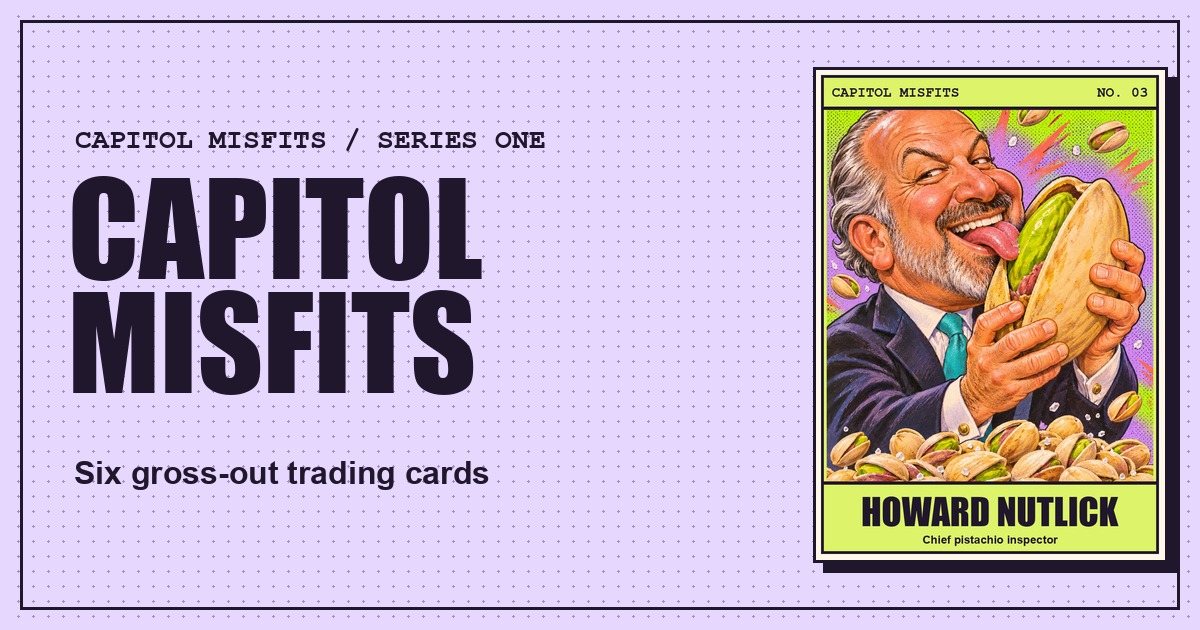
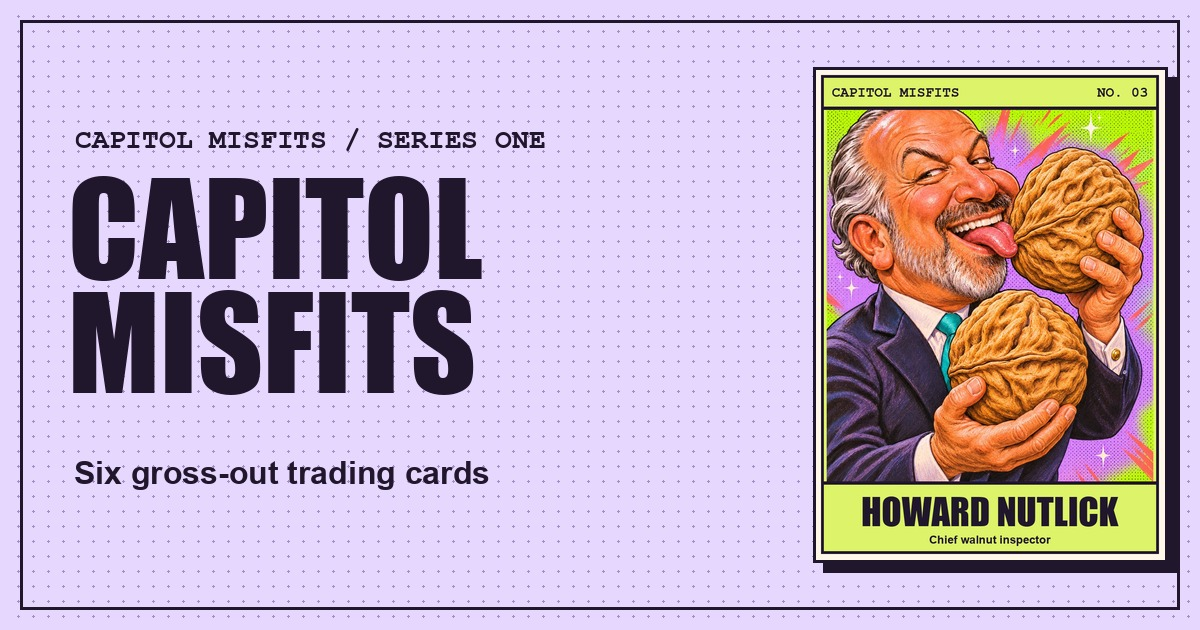
Give Howard Nutlick two walnuts

Changed region(s): [[0.6783, 0.1508, 0.9867, 0.7841], [0.7708, 0.8444, 0.8942, 0.8746], [0.6783, 0.181, 0.74, 0.2714]]

diff --git a/docs/howard-nutlick/index.html b/docs/howard-nutlick/index.html
@@ -4,17 +4,17 @@
   <meta charset="utf-8">
   <meta name="viewport" content="width=device-width, initial-scale=1">
   <title>Howard Nutlick | Capitol Misfits</title>
-  <meta name="description" content="Chief pistachio inspector. Some people crack a pistachio to see what’s inside. Howard goes straight to the taste test.">
+  <meta name="description" content="Chief walnut inspector. Howard brought two giant walnuts to the taste test. He’ll get around to cracking them eventually.">
   <link rel="canonical" href="https://daaronr.github.io/capitol-misfits/howard-nutlick/">
   <meta property="og:type" content="website">
   <meta property="og:site_name" content="Capitol Misfits">
   <meta property="og:url" content="https://daaronr.github.io/capitol-misfits/howard-nutlick/">
   <meta property="og:title" content="Howard Nutlick | Capitol Misfits">
-  <meta property="og:description" content="Chief pistachio inspector. Some people crack a pistachio to see what’s inside. Howard goes straight to the taste test.">
+  <meta property="og:description" content="Chief walnut inspector. Howard brought two giant walnuts to the taste test. He’ll get around to cracking them eventually.">
   <meta property="og:image" content="https://daaronr.github.io/capitol-misfits/assets/howard-nutlick-social.jpg">
   <meta property="og:image:width" content="1200">
   <meta property="og:image:height" content="630">
-  <meta property="og:image:alt" content="A grinning Howard Lutnick taste-tests the green kernel of a head-sized pistachio.">
+  <meta property="og:image:alt" content="A grinning Howard Lutnick holds two giant walnuts and taste-tests one.">
   <meta name="twitter:card" content="summary_large_image">
   <link rel="stylesheet" href="../gallery.css">
   <script src="../gallery.js" defer></script>
@@ -35,18 +35,18 @@
     <div class="single-copy">
       <p class="eyebrow">Series one · Card 03</p>
       <h1 id="page-title">Howard Nutlick</h1>
-      <p class="lede">Chief pistachio inspector. Some people crack a pistachio to see what’s inside. Howard goes straight to the taste test.</p>
+      <p class="lede">Chief walnut inspector. Howard brought two giant walnuts to the taste test. He’ll get around to cracking them eventually.</p>
       <p><a href="https://www.thebulwark.com/p/sam-stein-the-divorce">Nickname inspired by Tim Miller of The Bulwark</a>.</p>
     </div>
 
     <article class="card" id="howard-nutlick" data-card aria-labelledby="page-title" style="--accent:#dcf36a;--back-paper:#edf9b4">
-      <img class="card-face" data-front src="../assets/howard-nutlick.webp" width="750" height="1050" loading="eager" alt="A grinning Howard Lutnick taste-tests the green kernel of a head-sized pistachio. Card text reads Howard Nutlick, Chief pistachio inspector.">
+      <img class="card-face" data-front src="../assets/howard-nutlick.webp" width="750" height="1050" loading="eager" alt="A grinning Howard Lutnick holds two giant walnuts and taste-tests one. Card text reads Howard Nutlick, Chief walnut inspector.">
       <div class="card-back" id="howard-nutlick-back" data-back>
         <p class="back-series"><span>Capitol Misfits</span> <span>No. 03</span></p>
         <p class="back-title">Howard Nutlick</p>
-        <p class="back-blurb">Some people crack a pistachio to see what’s inside. Howard goes straight to the taste test.</p>
+        <p class="back-blurb">Howard brought two giant walnuts to the taste test. He’ll get around to cracking them eventually.</p>
         <p class="stat-label">Made-up stats</p>
-        <dl class="stat-list"><div><dt>Shell diameter</dt><dd>14 in</dd></div><div><dt>Quality-control licks</dt><dd>27</dd></div><div><dt>Napkins on hand</dt><dd>0</dd></div></dl>
+        <dl class="stat-list"><div><dt>Walnuts on hand</dt><dd>2</dd></div><div><dt>Quality-control licks</dt><dd>27</dd></div><div><dt>Napkins on hand</dt><dd>0</dd></div></dl>
         <section class="facts" aria-labelledby="howard-nutlick-facts">
           <h4 id="howard-nutlick-facts">Real facts about Howard Lutnick</h4>
           <ul><li>Lutnick was sworn in as U.S. secretary of commerce on February 21, 2025.</li></ul>

diff --git a/docs/index.html b/docs/index.html
@@ -14,7 +14,7 @@
   <meta property="og:image" content="https://daaronr.github.io/capitol-misfits/assets/gallery-social.jpg">
   <meta property="og:image:width" content="1200">
   <meta property="og:image:height" content="630">
-  <meta property="og:image:alt" content="Capitol Misfits trading cards featuring Howard Nutlick and a giant pistachio.">
+  <meta property="og:image:alt" content="Capitol Misfits trading cards featuring Howard Nutlick and two giant walnuts.">
   <meta name="twitter:card" content="summary_large_image">
   <link rel="stylesheet" href="gallery.css">
   <script src="gallery.js" defer></script>
@@ -41,7 +41,7 @@
           <a class="action" href="#deck">Browse the cards ↓</a>
         </div>
         <a class="hero-feature" href="howard-nutlick/" aria-label="Open the Howard Nutlick card">
-          <img src="assets/howard-nutlick.webp" width="750" height="1050" alt="Howard Nutlick and his giant pistachio">
+          <img src="assets/howard-nutlick.webp" width="750" height="1050" alt="Howard Nutlick with two giant walnuts">
         </a>
       </div>
     </section>
@@ -104,13 +104,13 @@
 
 
     <article class="card" id="howard-nutlick" data-card aria-labelledby="howard-nutlick-name" style="--accent:#dcf36a;--back-paper:#edf9b4">
-      <img class="card-face" data-front src="assets/howard-nutlick.webp" width="750" height="1050" loading="lazy" alt="A grinning Howard Lutnick taste-tests the green kernel of a head-sized pistachio. Card text reads Howard Nutlick, Chief pistachio inspector.">
+      <img class="card-face" data-front src="assets/howard-nutlick.webp" width="750" height="1050" loading="lazy" alt="A grinning Howard Lutnick holds two giant walnuts and taste-tests one. Card text reads Howard Nutlick, Chief walnut inspector.">
       <div class="card-back" id="howard-nutlick-back" data-back>
         <p class="back-series"><span>Capitol Misfits</span> <span>No. 03</span></p>
         <p class="back-title">Howard Nutlick</p>
-        <p class="back-blurb">Some people crack a pistachio to see what’s inside. Howard goes straight to the taste test.</p>
+        <p class="back-blurb">Howard brought two giant walnuts to the taste test. He’ll get around to cracking them eventually.</p>
         <p class="stat-label">Made-up stats</p>
-        <dl class="stat-list"><div><dt>Shell diameter</dt><dd>14 in</dd></div><div><dt>Quality-control licks</dt><dd>27</dd></div><div><dt>Napkins on hand</dt><dd>0</dd></div></dl>
+        <dl class="stat-list"><div><dt>Walnuts on hand</dt><dd>2</dd></div><div><dt>Quality-control licks</dt><dd>27</dd></div><div><dt>Napkins on hand</dt><dd>0</dd></div></dl>
         <section class="facts" aria-labelledby="howard-nutlick-facts">
           <h4 id="howard-nutlick-facts">Real facts about Howard Lutnick</h4>
           <ul><li>Lutnick was sworn in as U.S. secretary of commerce on February 21, 2025.</li></ul>

diff --git a/build.py b/build.py
@@ -182,7 +182,7 @@ def write_site(cards):
           <a class="action" href="#deck">Browse the cards ↓</a>
         </div>
         <a class="hero-feature" href="howard-nutlick/" aria-label="Open the Howard Nutlick card">
-          <img src="assets/howard-nutlick.webp" width="{WIDTH}" height="{HEIGHT}" alt="Howard Nutlick and his giant pistachio">
+          <img src="assets/howard-nutlick.webp" width="{WIDTH}" height="{HEIGHT}" alt="Howard Nutlick with two giant walnuts">
         </a>
       </div>
     </section>
@@ -216,7 +216,7 @@ def write_site(cards):
 """
     (DOCS / "index.html").write_text(shell(
         "Capitol Misfits", "Six gross-out political trading cards. Flip for made-up stats and sourced facts.",
-        "", "gallery", "Capitol Misfits trading cards featuring Howard Nutlick and a giant pistachio.", "", body
+        "", "gallery", "Capitol Misfits trading cards featuring Howard Nutlick and two giant walnuts.", "", body
     ), encoding="utf-8")
     for number, card in enumerate(cards, 1):
         e = escape

diff --git a/README.md b/README.md
@@ -12,13 +12,13 @@ Run `python3 -m http.server 8000 --directory docs` to preview. Open the gallery 
 
 ## Illustration prompts
 
-The Codex built-in image generator made the six panels. Each prompt used this shared direction and the matching scene below.
+The Codex built-in image generator made the six panels. Each original prompt used this shared direction and the matching scene below.
 
 > Create one full-bleed portrait 4:5 central trading-card ILLUSTRATION, image only, for Capitol Misfits, an original retro 1980s gross-out sticker-card parody of US politicians. Professional highly expressive painted editorial caricature, oversized head, strong action silhouette, punchy ink lines and detailed painterly colors, comically distorted perspective, crisp expressive face and high contrast, fine offset-print halftone grain in the background, visual humor suited for kids. Make the gag unmistakable at small size. Fill the whole frame with scene and keep key character and objects inside margins. Absolutely no text, border, lettering, card header, logo or watermark; real typesetting will be added separately.
 
 - **Burn-ey Sanders.** Recognizable Bernie Sanders caricature with wild white hair, spectacles, oversized head, rumpled blue suit at a Senate lectern. He is fiercely filibustering a gigantic personified sun with a bored expression. Absurd cartoon sun scorch: one side of his face has smoky soot and exaggerated raised red and orange bumps like toasted marshmallow, corner of jacket charred, bowing microphone melting. No open wounds or realistic burns. Solar orange and shocking cerulean.
 - **V.D. Jance.** Recognizable JD Vance caricature with dark beard and short brown hair, navy suit, startled expression, in a Capitol hallway. His worn briefcase bursts and sprays lurid fluorescent lime toy slime in looping arcs. He tries to plug it with a sock while a tiny office fan blows paperwork across the floor. Raspberry, green and electric azure.
-- **Howard Nutlick.** A recognizable Howard Lutnick caricature, silver side-parted hair, rounded cheeks, confident smile, dark suit and turquoise tie, holds one gigantic split pistachio the size of his head with both hands. A cartoon tongue playfully taste-tests a visible bright green pistachio kernel in the split shell. A mound of small pistachios and a few salt crystals fly about. Wholesome food gag and cheeky eyebrows. Acid green and lilac with a coral accent.
+- **Howard Nutlick.** A recognizable Howard Lutnick caricature, silver side-parted hair, rounded cheeks, confident smile, dark suit and turquoise tie, holds one gigantic split pistachio the size of his head with both hands. A cartoon tongue playfully taste-tests a visible bright green pistachio kernel in the split shell. A mound of small pistachios and a few salt crystals fly about. Wholesome food gag and cheeky eyebrows. Acid green and lilac with a coral accent. The revised panel uses exactly two whole, ridged walnuts, one in each hand, with Howard taste-testing one. The halftone burst and a few sparkles replace the scattered nuts.
 - **Marco Rubble-O.** Recognizable Marco Rubio caricature, dark slicked hair, large eyebrows, oversized head and dress shirt and tie. A collapsed lectern has left him in a silly pile of cartoon rubble, a microphone perched absurdly on top, holding a single glass of water completely level while chunks of foam-looking stone bounce around. Lavender and copper with yellow accents.
 - **Chuck Chummer.** Recognizable Chuck Schumer caricature, bald crown and gray fringe, spectacles low on the nose. On a tiny capsizing fishing skiff in an indoor Senate reflecting pool, he ladles a bucketful of cartoon rubber fish and pink sludge into the water, while a curious shark fin zigzags toward a gavel bobbing like a float. Aqua ink, orange and pink.
 - **Ted Cruise.** Recognizable Ted Cruz caricature, dark full beard, short slick hair, arched eyebrows, deck shirt over a rumpled suit and socks with sandals, negotiating with a mutinous sea gull on a comically small inflatable cruise boat stranded in bright slushy snow. A wheelie suitcase is stuck in a drift beside him. Icy turquoise and blazing vacation pink with yellow.
